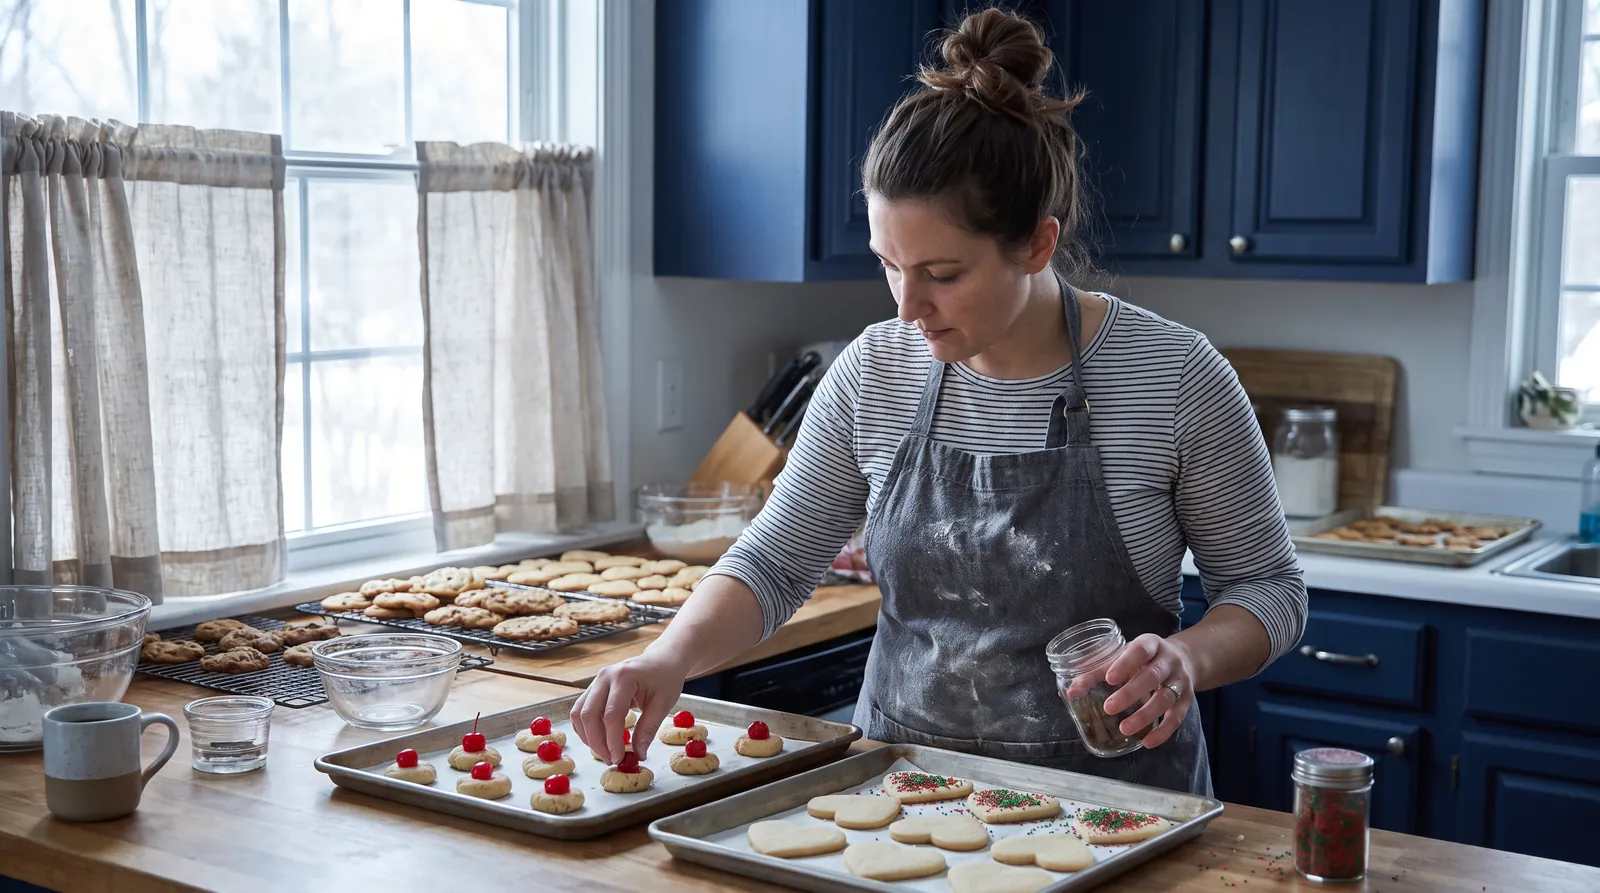
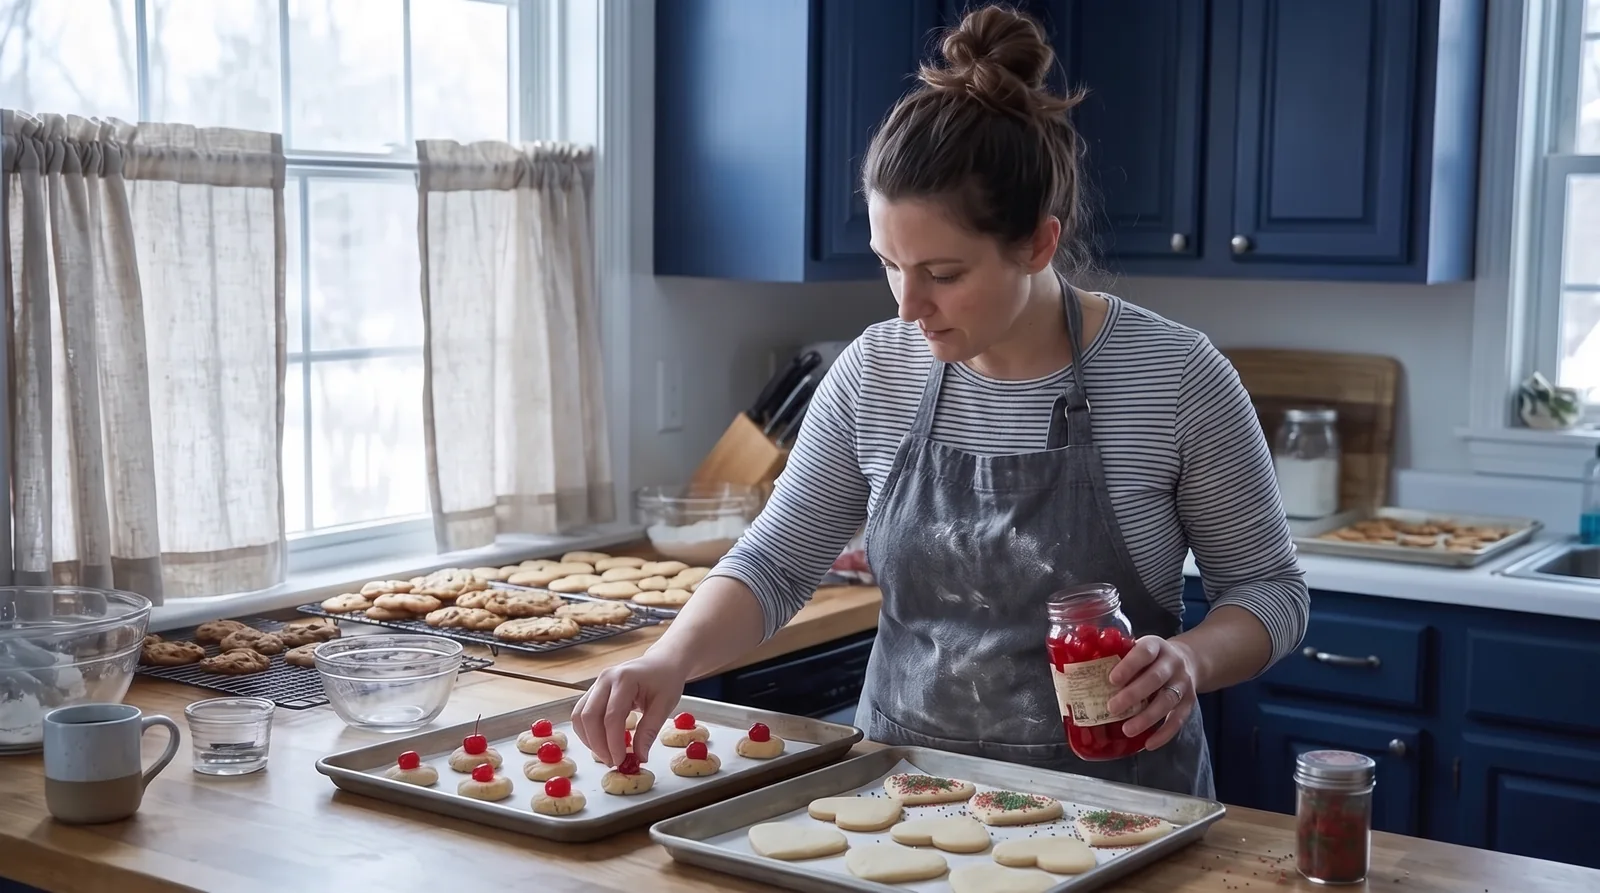
photos: red-dye-3-foods-list recheck fixes

diff --git a/blog-pipeline/photos-completed/red-dye-3-foods-list.md b/blog-pipeline/photos-completed/red-dye-3-foods-list.md
@@ -36,3 +36,6 @@ note: "Navy kitchen with butcher block counters and cafe curtains, brunette in h
 - image_url: https://scan.ismyhometoxic.com/blog-images/reddye3food-freedom-v1.webp
 - placement: final image before the closing scan CTA
 - completed: 2026-11-19T17:06:00
+
+## Recheck (Photo Claude) 2026-11-20
+Recheck: Jar in her hand now shows bright red maraschino cherries.
